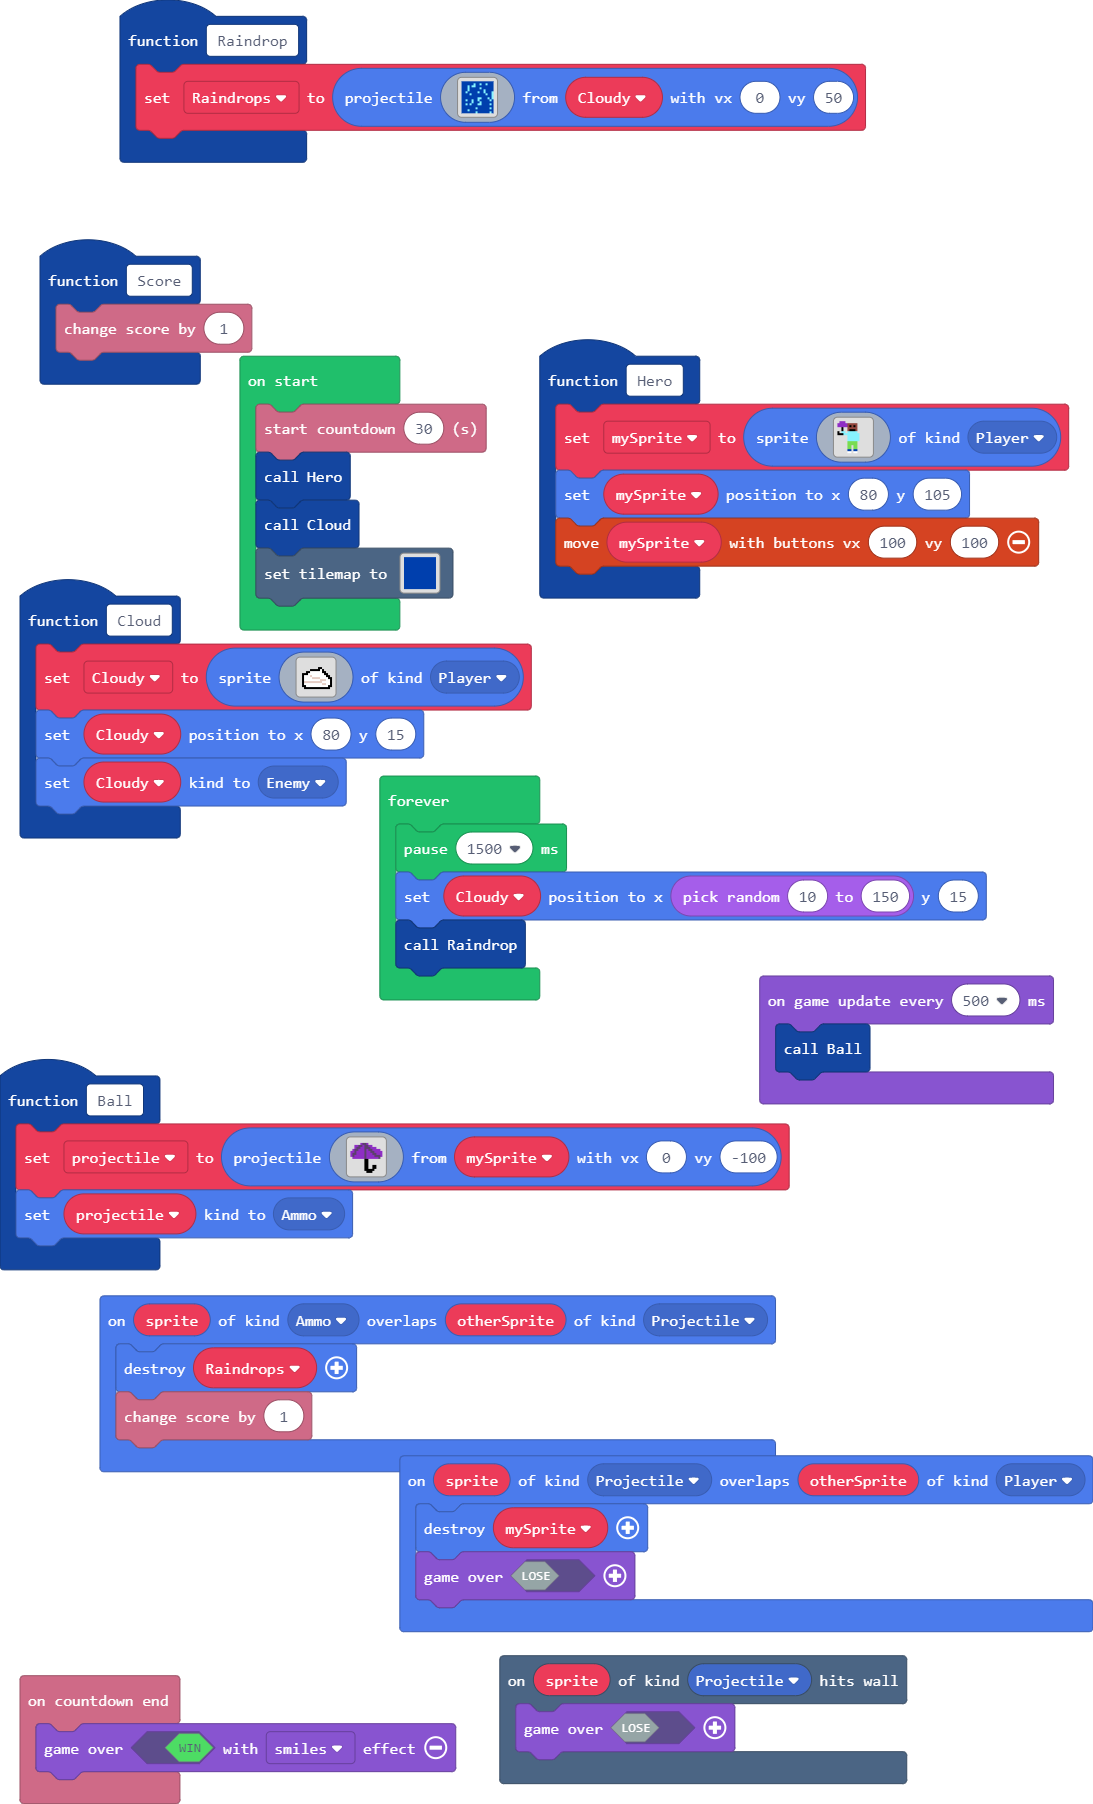
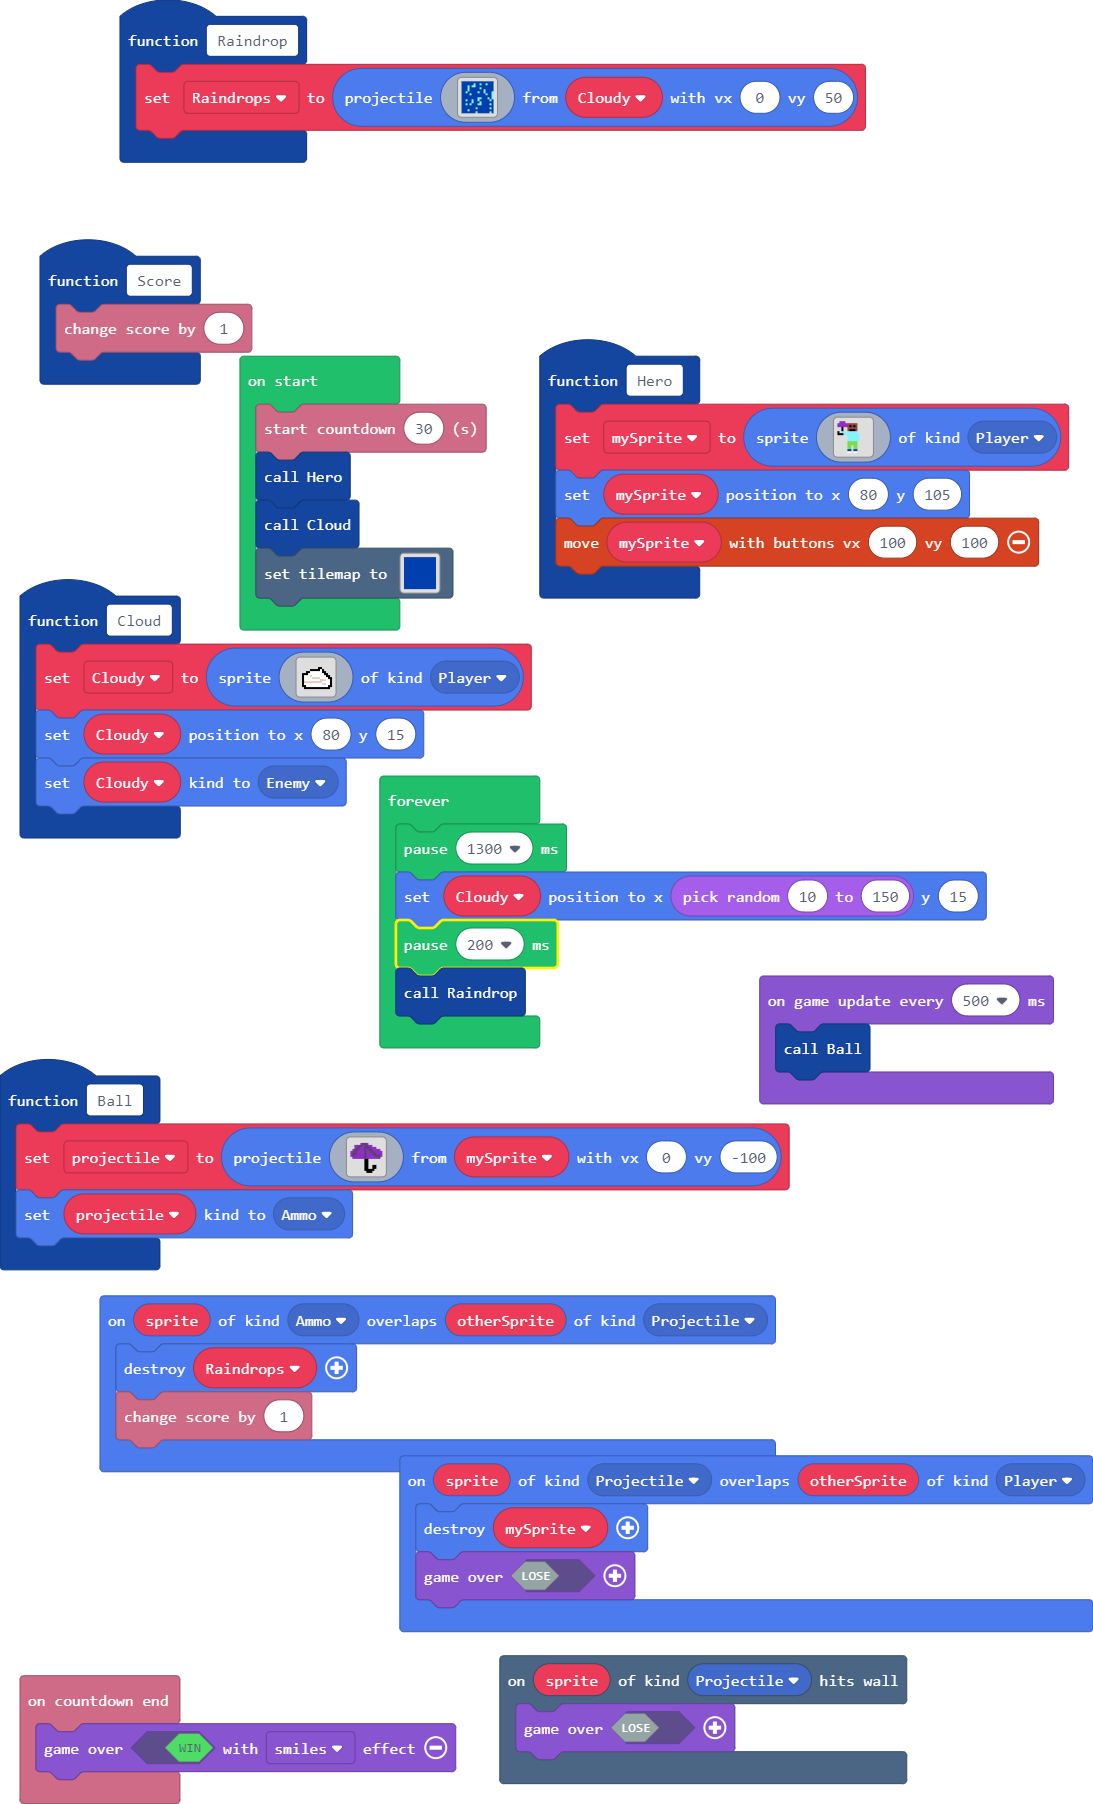
Update main.blocks, main.ts

Changed region(s): [[0.3422, 0.4967, 0.5288, 0.5898]]

diff --git a/main.ts b/main.ts
@@ -177,7 +177,8 @@ game.onUpdateInterval(500, function () {
     Ball()
 })
 forever(function () {
-    pause(1500)
+    pause(1300)
     Cloudy.setPosition(Math.randomRange(10, 150), 15)
+    pause(200)
     Raindrop()
 })
